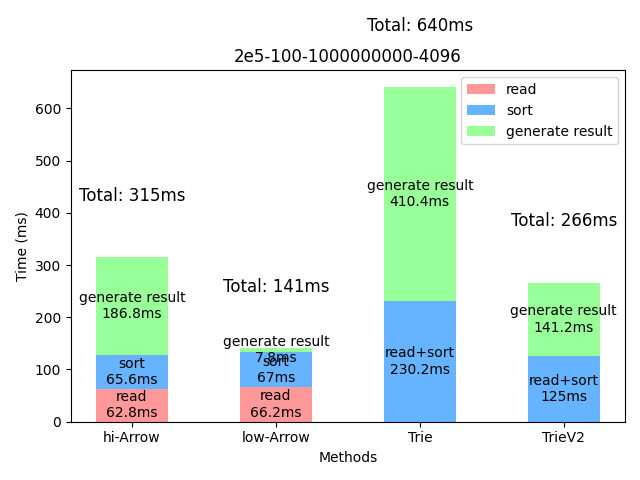
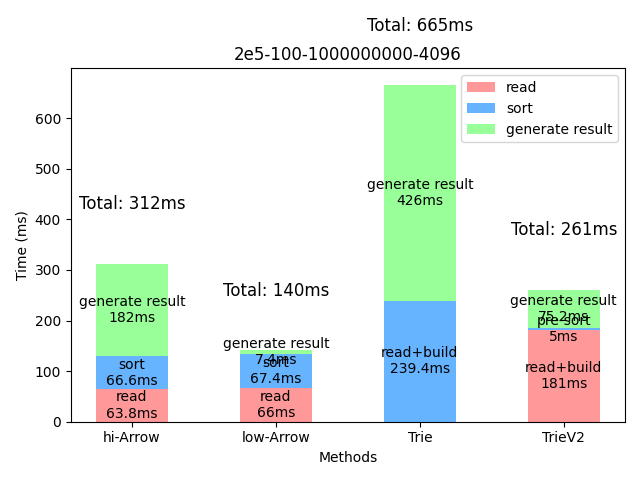
add data

diff --git a/benchmark/delta_string_sort/src/trie_sort/trie_sort_v2.h b/benchmark/delta_string_sort/src/trie_sort/trie_sort_v2.h
@@ -23,10 +23,7 @@ using ValueT = int;
 constexpr size_t kElementNum = 256;
 
 struct TrieConfig {
-  // lazy node are allowed when depth is bigger than lazy_dep_lmt
-  int lazy_dep_lmt = 4;
-
-  // lazy node brust limit
+  // lazy node brust limit, 0 means no lazy node
   int lazy_key_burst_lmt = 4096;
 };
 
@@ -42,6 +39,9 @@ struct Trie {
 
     // first: prefix length, second: value
     std::vector<std::pair<int, ValueT>> substr_values;
+
+    // lazy values, <prefix_len, value>
+    std::deque<std::pair<std::string, ValueT>> lazy_values;
   };
 
   std::array<Node *, kElementNum> roots{nullptr};
@@ -257,9 +257,35 @@ public:
 
   void registerFunc(FuncT func) { func_ = std::move(func); }
 
-  void print() {
-    init();
+  void preSort() {
+    CHECK(!pre_sorted);
+    for (auto &node : trie_->node_pool_) {
+      std::sort(node->substr_values.begin(), node->substr_values.end(),
+                [](auto &x, auto &y) { return x.first > y.first; });
+#ifndef NDEBUG
+      for (int i = 1; i < node->children_l.size(); ++i) {
+        DCHECK(std::get<0>(node->children_l[i]) <
+                   std::get<0>(node->children_l[i - 1]) ||
+               (std::get<0>(node->children_l[i]) ==
+                    std::get<0>(node->children_l[i - 1]) &&
+                std::get<1>(node->children_l[i]) <
+                    std::get<1>(node->children_l[i - 1])));
+      }
+      for (int i = 1; i < node->children_g.size(); ++i) {
+        DCHECK(std::get<0>(node->children_g[i]) <
+                   std::get<0>(node->children_g[i - 1]) ||
+               (std::get<0>(node->children_g[i]) ==
+                    std::get<0>(node->children_g[i - 1]) &&
+                std::get<1>(node->children_g[i]) >
+                    std::get<1>(node->children_g[i - 1])));
+      }
+#endif
+    }
+    pre_sorted = true;
+  }
 
+  void print() {
+    CHECK(pre_sorted);
     for (auto &root : trie_->roots) {
       if (!root)
         continue;
@@ -324,31 +350,6 @@ public:
   auto valueNum() const { return trie_->value_num; }
 
 private:
-  void init() {
-    for (auto &node : trie_->node_pool_) {
-      std::sort(node->substr_values.begin(), node->substr_values.end(),
-                [](auto &x, auto &y) { return x.first > y.first; });
-#ifndef NDEBUG
-      for (int i = 1; i < node->children_l.size(); ++i) {
-        DCHECK(std::get<0>(node->children_l[i]) <
-                   std::get<0>(node->children_l[i - 1]) ||
-               (std::get<0>(node->children_l[i]) ==
-                    std::get<0>(node->children_l[i - 1]) &&
-                std::get<1>(node->children_l[i]) <
-                    std::get<1>(node->children_l[i - 1])));
-      }
-      for (int i = 1; i < node->children_g.size(); ++i) {
-        DCHECK(std::get<0>(node->children_g[i]) <
-                   std::get<0>(node->children_g[i - 1]) ||
-               (std::get<0>(node->children_g[i]) ==
-                    std::get<0>(node->children_g[i - 1]) &&
-                std::get<1>(node->children_g[i]) >
-                    std::get<1>(node->children_g[i - 1])));
-      }
-#endif
-    }
-  }
-
   void print_string(int value) {
     func_(last_prefix_len_, prefix_, value);
     last_prefix_len_ += prefix_.length();
@@ -358,6 +359,7 @@ private:
   std::unique_ptr<Trie> trie_;
   FuncT func_;
 
+  bool pre_sorted = false;
   std::string prefix_;
   size_t last_prefix_len_ = 0;
 

diff --git a/benchmark/delta_string_sort/src/parquet_sorter_trie_v2.h b/benchmark/delta_string_sort/src/parquet_sorter_trie_v2.h
@@ -72,15 +72,18 @@ public:
     return sort_index_;
   }
 
-  void generate_result() override {
-    trie_v2::TriePrinter printer(std::move(trie_));
+  void pre_sort() {
+    printer_ = std::make_unique<trie_v2::TriePrinter>(std::move(trie_));
+    printer_->preSort();
+  }
 
+  void generate_result() override {
     arrow::Int32Builder idx_builder;
-    if (auto ret = idx_builder.Reserve(printer.valueNum()); !ret.ok()) {
+    if (auto ret = idx_builder.Reserve(printer_->valueNum()); !ret.ok()) {
       LOG(ERROR) << ret.message();
     }
     ::arrow::StringBuilder str_builder;
-    if (!str_builder.Reserve(printer.valueNum()).ok()) {
+    if (!str_builder.Reserve(printer_->valueNum()).ok()) {
       LOG(ERROR) << "Failed to reserve space for string builder.";
     }
 
@@ -95,8 +98,8 @@ public:
       }
     };
 
-    printer.registerFunc(f);
-    printer.print();
+    printer_->registerFunc(f);
+    printer_->print();
 
     if (auto ret = idx_builder.Finish(&sort_index_); !ret.ok()) {
       LOG(ERROR) << ret.message();
@@ -151,6 +154,7 @@ protected:
 
   trie_v2::TrieConfig trie_config_;
   std::unique_ptr<trie_v2::Trie> trie_;
+  std::unique_ptr<trie_v2::TriePrinter> printer_;
 };
 
 } // namespace whippet_sort

diff --git a/benchmark/delta_string_sort/src/benchmark.cc b/benchmark/delta_string_sort/src/benchmark.cc
@@ -121,7 +121,7 @@ int main(int argc, char *argv[]) {
                                                                  col_idx);
       sorter->set_trie_config(config);
       auto idx_array = sorter->sort_by_column();
-      return "read+sort";
+      return "read+build";
     });
     steps.push_back([&]() {
       sorter->generate_result();
@@ -144,14 +144,17 @@ int main(int argc, char *argv[]) {
     config.lazy_key_burst_lmt = FLAGS_trie_lazy_key_burst_lmt;
 
     std::vector<std::function<std::string()>> steps;
-    steps.push_back([&]() { return ""; }); // for align output
     steps.push_back([&]() {
       Utils::drop_file_cache(input_file);
       sorter = std::make_unique<whippet_sort::ParquetSorterTrieV2>(input_file,
                                                                    col_idx);
       sorter->set_trie_config(config);
       auto idx_array = sorter->sort_by_column();
-      return "read+sort";
+      return "read+build";
+    });
+    steps.push_back([&]() {
+      sorter->pre_sort();
+      return "pre-sort";
     });
     steps.push_back([&]() {
       sorter->generate_result();

diff --git a/benchmark/delta_string_sort/draw.py b/benchmark/delta_string_sort/draw.py
@@ -118,4 +118,4 @@ run_benchmark_and_draw("2e6-400", "", lazy_dep_lmt, lazy_key_burst_lmt)
 
 run_benchmark_and_draw("2e7-100", "", lazy_dep_lmt, lazy_key_burst_lmt)
 run_benchmark_and_draw("2e7-200", "", lazy_dep_lmt, lazy_key_burst_lmt)
-# run_benchmark_and_draw("2e7-400", "", lazy_dep_lmt, lazy_key_burst_lmt)
+run_benchmark_and_draw("2e7-400", "", lazy_dep_lmt, lazy_key_burst_lmt)

diff --git a/benchmark/delta_string_sort/test/trie_v2_test.cpp b/benchmark/delta_string_sort/test/trie_v2_test.cpp
@@ -82,6 +82,7 @@ public:
     auto begin_time = std::chrono::steady_clock::now();
 
     trie_printer = std::make_unique<TriePrinter>(trie_.build());
+    trie_printer->preSort();
     trie_printer->registerFunc(f);
     trie_printer->print();
 
